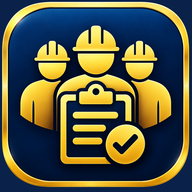
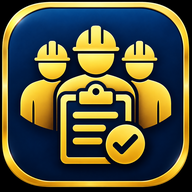
Add files via upload

diff --git a/index.html b/index.html
@@ -6,8 +6,8 @@
 <title>Leave Register</title>
 <link rel="manifest" href="manifest.json">
 <meta name="theme-color" content="#25344A">
-<link rel="apple-touch-icon" href="icon-192.png">
-<link rel="icon" href="icon-192.png">
+<link rel="apple-touch-icon" href="icon-192.png?v=17">
+<link rel="icon" type="image/png" href="icon-192.png?v=17">
 <link rel="preconnect" href="https://fonts.googleapis.com">
 <link href="https://fonts.googleapis.com/css2?family=Special+Elite&family=Inter:wght@400;500;600;700&display=swap" rel="stylesheet">
 <style>
@@ -68,30 +68,14 @@
 
   .cover-main{display:flex; flex-direction:column; justify-content:center; min-width:0;}
   .brand-mark{width:62px; height:62px; flex:0 0 62px; border-radius:18px; background:linear-gradient(145deg,#F5D56A,#B4922E); color:var(--navy-deep); display:flex; align-items:center; justify-content:center; position:relative; box-shadow:0 5px 12px rgba(0,0,0,.18); font-size:30px; margin-left:14px;}
+  .brand-mark-img{width:72px; height:72px; flex:0 0 72px; border-radius:20px; object-fit:cover; margin-left:14px; box-shadow:0 6px 16px rgba(0,0,0,.22); border:2px solid rgba(217,192,137,.7); background:#16202E;}
   .brand-mark b{position:absolute; right:-4px; bottom:-4px; width:22px; height:22px; border-radius:50%; background:#fff; color:var(--ok); display:flex; align-items:center; justify-content:center; font-size:13px; box-shadow:0 2px 6px rgba(0,0,0,.18);}
   .cover{display:grid; grid-template-columns:auto 1fr; gap:14px; align-items:center;}
   .cover-main .cover-eyebrow,.cover-main .cover-title{margin-left:0;}
   .cover-title span{font-family:'Inter',sans-serif; font-size:.58em; font-weight:500; color:#E8E1D2;}
   .backup-row{grid-column:1 / -1; display:flex; align-items:center; gap:10px; flex-wrap:wrap; padding-left:76px;}
   .backup-row .cover-note{flex:1; min-width:220px;}
-  @media (max-width:560px){ .cover{grid-template-columns:auto 1fr; padding:16px 18px;} .brand-mark{width:52px;height:52px;flex-basis:52px;font-size:24px;} .backup-row{padding-left:0;} .cover-title{font-size:22px;} }
-  .company-row{
-    display:flex; align-items:center; gap:10px;
-    margin-left:14px;
-  }
-  .company-row label{ font-size:13px; color:#C7CFDB; }
-  .company-row input{
-    flex:1; max-width:340px;
-    background: transparent;
-    border: none;
-    border-bottom: 1px solid rgba(255,255,255,0.35);
-    color:#fff;
-    font-family:'Special Elite', monospace;
-    font-size:16px;
-    padding: 4px 2px;
-  }
-  .company-row input:focus{ outline:none; border-bottom-color: var(--gold-line); }
-
+  @media (max-width:560px){ .cover{grid-template-columns:auto 1fr; padding:16px 18px;} .brand-mark-img{width:52px;height:52px;flex-basis:52px;margin-left:0;} .backup-row{padding-left:0;} .cover-title{font-size:22px;} }
   /* Overdue intimation banner */
   .overdue-banner{
     background: #FBEAE7;
@@ -349,7 +333,7 @@
 <div class="wrap">
 
   <div class="cover">
-    <div class="brand-mark" aria-hidden="true"><span>👥</span><b>✓</b></div>
+    <img class="brand-mark-img" src="icon-192.png?v=17" alt="Leave Register">
     <div class="cover-main">
       <p class="cover-eyebrow">EMPLOYEE RECORD BOOK</p>
       <h2 class="cover-title">Leave Register <span>· விடுப்பு பதிவேடு</span></h2>
@@ -575,7 +559,6 @@
 
 <script>
 const STORAGE_KEY = 'leave-entries';
-const COMPANY_KEY = 'company-name';
 const WORKERS_KEY = 'workers-master';
 let entries = [];
 let workers = [];
@@ -1178,7 +1161,6 @@ document.getElementById('workersAwayModal').addEventListener('click', (e) => {
 
 function exportBackup(){
   const data = {
-    companyName: localStorage.getItem(COMPANY_KEY) || '',
     workers: workers,
     entries: entries,
     exportedAt: new Date().toISOString()
@@ -1215,7 +1197,6 @@ document.getElementById('restoreInput').addEventListener('change', (e) => {
       entries = Array.isArray(data.entries) ? data.entries : [];
       await persistWorkers();
       await persistEntries();
-      if(typeof data.companyName === 'string') localStorage.setItem(COMPANY_KEY, data.companyName);
       render();
       setStatus('Backup restored successfully.');
     }catch(err){

diff --git a/sw.js b/sw.js
@@ -1,4 +1,4 @@
-const CACHE_NAME = 'leave-register-v2';
+const CACHE_NAME = 'leave-register-v17';
 const APP_SHELL = [
   './',
   './index.html',
@@ -27,7 +27,13 @@ self.addEventListener('fetch', (event) => {
   if (event.request.method !== 'GET') return;
 
   event.respondWith(
-    caches.match(event.request).then((cached) => {
+    (event.request.mode === 'navigate' ? fetch(event.request).then((response) => {
+      if (response && response.status === 200) {
+        const clone = response.clone();
+        caches.open(CACHE_NAME).then((cache) => cache.put('./index.html', clone));
+      }
+      return response;
+    }).catch(() => caches.match('./index.html')) : caches.match(event.request).then((cached) => {
       const networkFetch = fetch(event.request)
         .then((response) => {
           if (response && response.status === 200) {
@@ -38,6 +44,6 @@ self.addEventListener('fetch', (event) => {
         })
         .catch(() => cached);
       return cached || networkFetch;
-    })
+    }))
   );
 });
